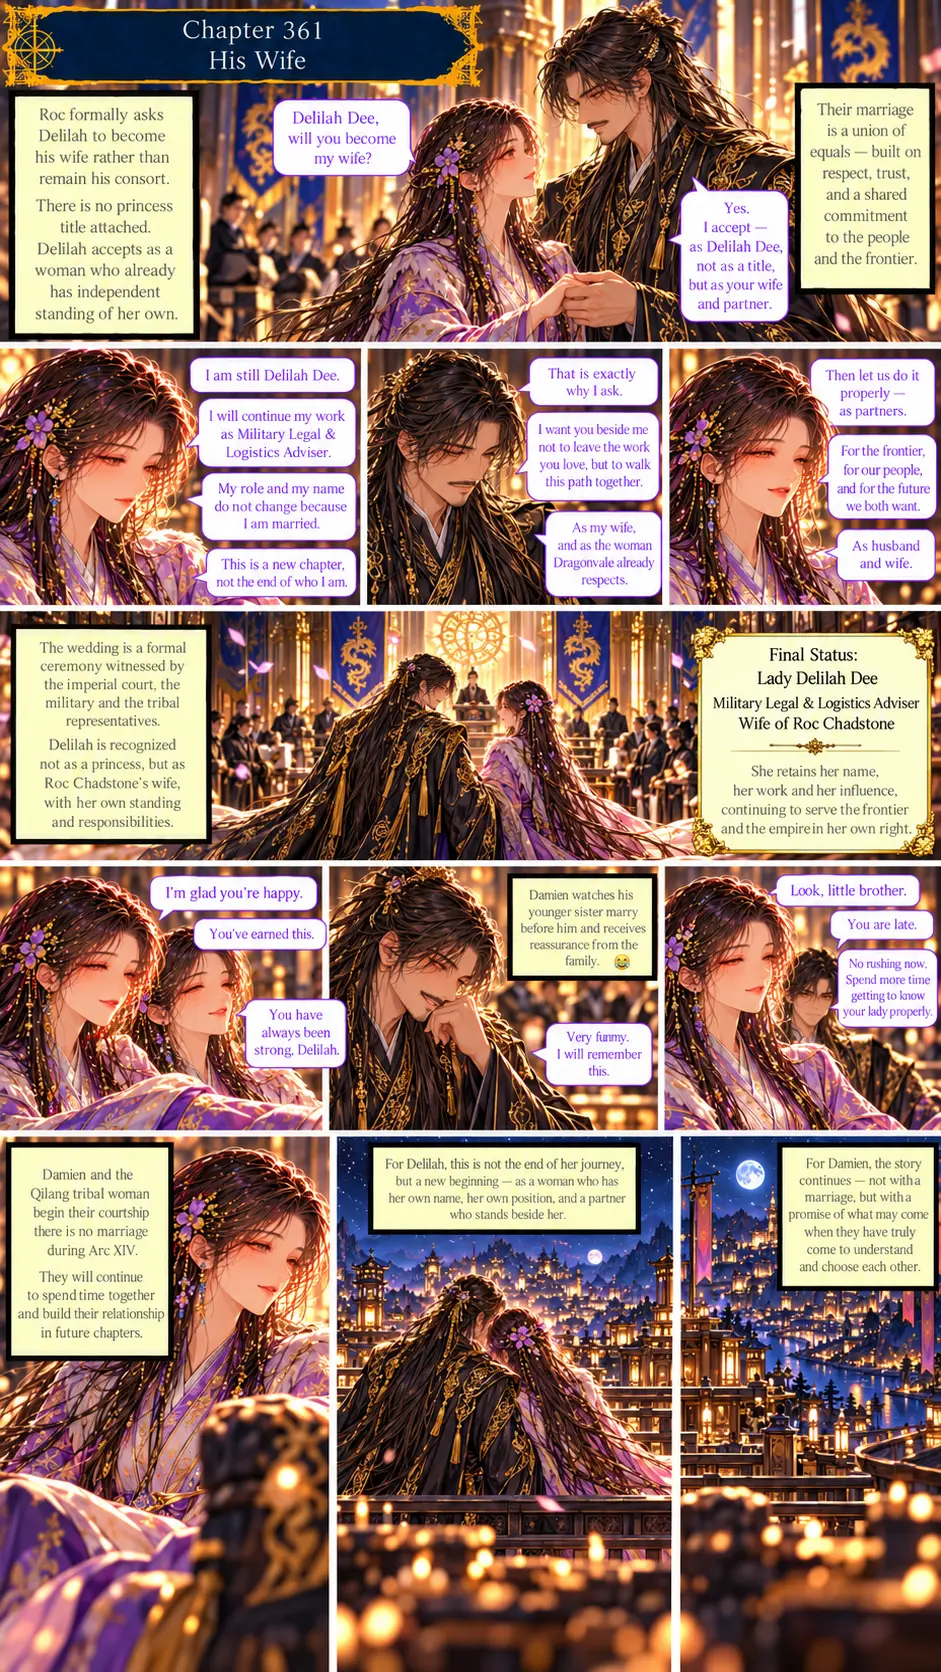
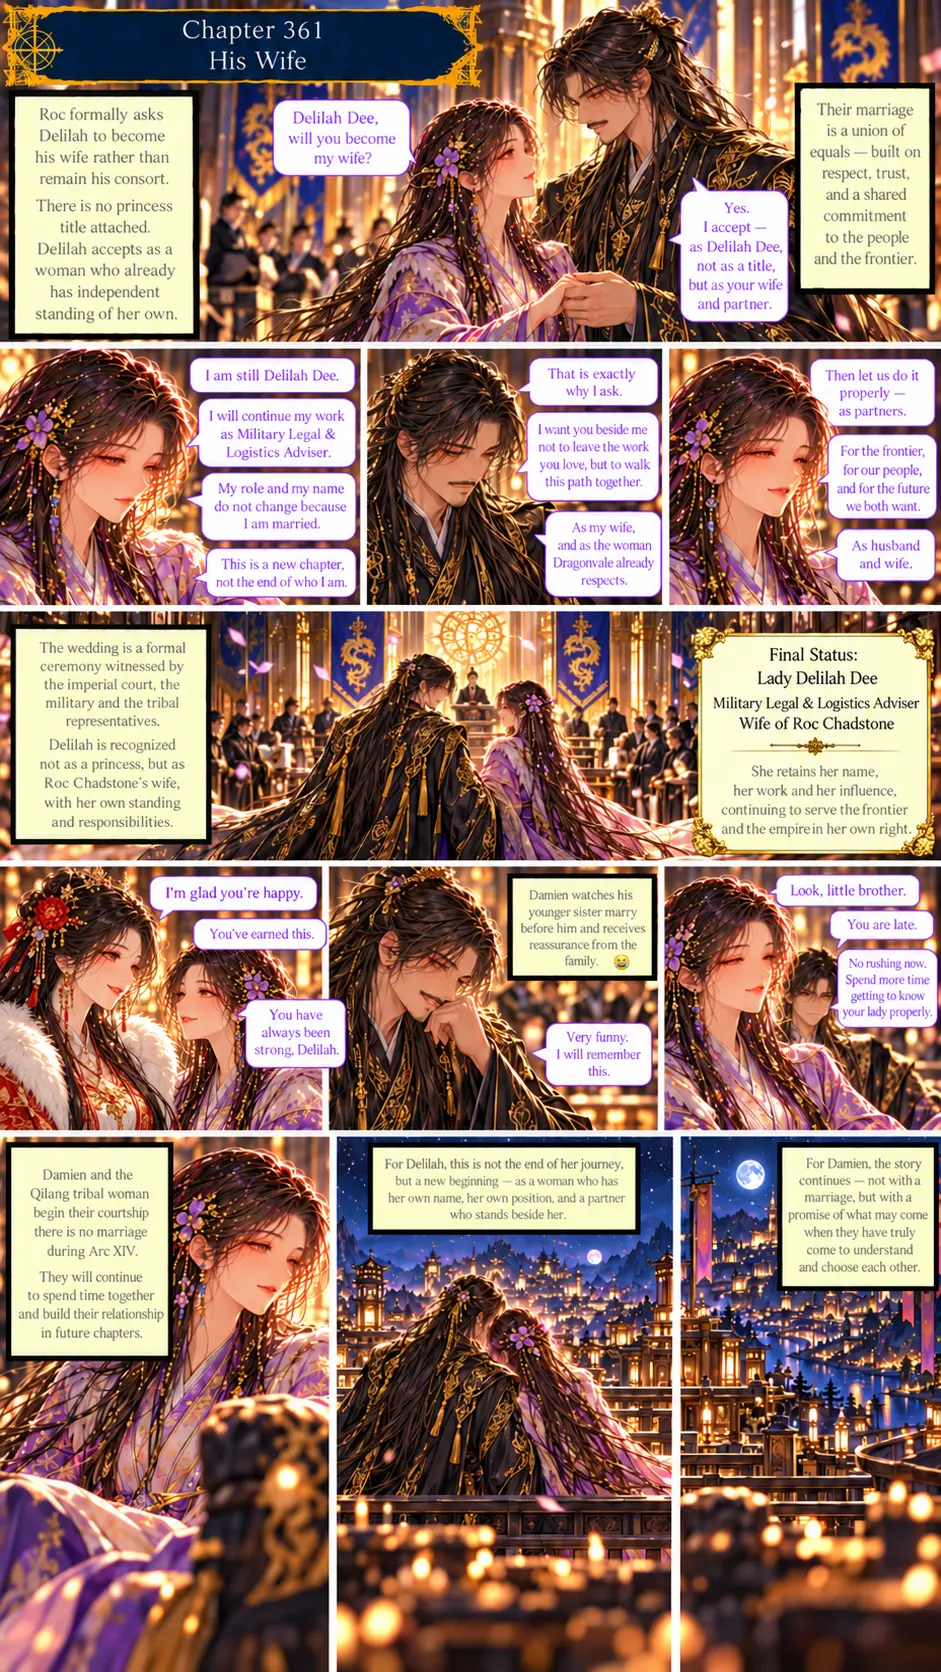
ch361: replaced page, congratulations are Jade's
Claude-Session: https://claude.ai/code/session_01JgCx3Matg4MVjEr67ncDB4

diff --git a/scripts/chapters.js b/scripts/chapters.js
@@ -3620,8 +3620,8 @@ const CHAPTER_DESIGN = {
  361:{ title:'His Wife', type:'Story Chapter — Arc XIV, The House of Dee (title from the author\'s brief): the Dee household and the western frontier', loc:'🐉 Dragonvale: the Noble Court',
   chars:['jade', 'devon'], charsNote:'Jade, Devon, Delilah, Roc and Damien',
   introduced:[],
-  sum:'Roc formally asks Delilah to become his wife rather than remain his consort. There is no princess title attached. Delilah accepts as a woman who already has independent standing of her own. Roc: "Delilah Dee, will you become my wife?" Delilah: "Yes. I accept, as Delilah Dee, not as a title, but as your wife and partner. I am still Delilah Dee. I will continue my work as Military Legal & Logistics Adviser. My role and my name do not change because I am married. This is a new chapter, not the end of who I am." Roc: "That is exactly why I ask. I want you beside me, not to leave the work you love, but to walk this path together. As my wife, and as the woman Dragonvale already respects." Delilah: "Then let us do it properly, as partners. For the frontier, for our people, and for the future we both want. As husband and wife." Their marriage is a union of equals, built on respect, trust and a shared commitment to the people and the frontier. The wedding is a formal ceremony witnessed by the imperial court, the military and the tribal representatives. Delilah is recognized not as a princess, but as Roc Chadstone\'s wife, with her own standing and responsibilities. Final Status: Lady Delilah Dee, Military Legal & Logistics Adviser, Wife of Roc Chadstone. She retains her name, her work and her influence, continuing to serve the frontier and the empire in her own right. A family member: "I\'m glad you\'re happy. You\'ve earned this. You have always been strong, Delilah." Damien watches his younger sister marry before him and receives reassurance from the family. A family member: "Look, little brother. You are late. No rushing now. Spend more time getting to know your lady properly." Damien: "Very funny. I will remember this." Damien and the Qilang tribal woman begin their courtship: there is no marriage during Arc XIV. They will continue to spend time together and build their relationship in future chapters. For Delilah, this is not the end of her journey, but a new beginning, as a woman who has her own name, her own position, and a partner who stands beside her. For Damien, the story continues: not with a marriage, but with a promise of what may come when they have truly come to understand and choose each other.',
-  art:'Pages show: Roc (a bearded man in black-and-gold robes with a tied-up long hair) holding Delilah\'s hands in the Dragonvale court under blue dragon banners; close-ups of Delilah and Roc; the wedding ceremony with a "Final Status" card (Lady Delilah Dee, Military Legal & Logistics Adviser, Wife of Roc Chadstone); family members congratulating her; Damien covering his mouth with a laugh; a closing night view of the lit city. The family jokes about Damien being late; the page text does not name the speakers. A rendering note: a 😂 emoji is printed in a caption.',
+  sum:'Roc formally asks Delilah to become his wife rather than remain his consort. There is no princess title attached. Delilah accepts as a woman who already has independent standing of her own. Roc: "Delilah Dee, will you become my wife?" Delilah: "Yes. I accept, as Delilah Dee, not as a title, but as your wife and partner. I am still Delilah Dee. I will continue my work as Military Legal & Logistics Adviser. My role and my name do not change because I am married. This is a new chapter, not the end of who I am." Roc: "That is exactly why I ask. I want you beside me, not to leave the work you love, but to walk this path together. As my wife, and as the woman Dragonvale already respects." Delilah: "Then let us do it properly, as partners. For the frontier, for our people, and for the future we both want. As husband and wife." Their marriage is a union of equals, built on respect, trust and a shared commitment to the people and the frontier. The wedding is a formal ceremony witnessed by the imperial court, the military and the tribal representatives. Delilah is recognized not as a princess, but as Roc Chadstone\'s wife, with her own standing and responsibilities. Final Status: Lady Delilah Dee, Military Legal & Logistics Adviser, Wife of Roc Chadstone. She retains her name, her work and her influence, continuing to serve the frontier and the empire in her own right. Jade: "I\'m glad you\'re happy. You\'ve earned this. You have always been strong, Delilah." Damien watches his younger sister marry before him and receives reassurance from the family. A family member: "Look, little brother. You are late. No rushing now. Spend more time getting to know your lady properly." Damien: "Very funny. I will remember this." Damien and the Qilang tribal woman begin their courtship: there is no marriage during Arc XIV. They will continue to spend time together and build their relationship in future chapters. For Delilah, this is not the end of her journey, but a new beginning, as a woman who has her own name, her own position, and a partner who stands beside her. For Damien, the story continues: not with a marriage, but with a promise of what may come when they have truly come to understand and choose each other.',
+  art:'Pages show: Roc (a bearded man in black-and-gold robes with a tied-up long hair) holding Delilah\'s hands in the Dragonvale court under blue dragon banners; close-ups of Delilah and Roc; the wedding ceremony with a "Final Status" card (Lady Delilah Dee, Military Legal & Logistics Adviser, Wife of Roc Chadstone); Jade (red-and-white fur-trimmed robe, red hair ornaments) congratulating Delilah; Damien covering his mouth with a laugh; a closing night view of the lit city. The family jokes about Damien being late; the page text does not name the speakers. A rendering note: a 😂 emoji is printed in a caption.',
   quote:'"Final Status: Lady Delilah Dee. Military Legal & Logistics Adviser. Wife of Roc Chadstone."',
   events:['Roc formally asks Delilah to become his wife rather than remain his consort; no princess title', 'Delilah accepts as a woman who already has independent standing, keeping her name and her work', 'The wedding is witnessed by the imperial court, the military and the tribal representatives', 'Final status: Lady Delilah Dee, Military Legal & Logistics Adviser, Wife of Roc Chadstone', 'Damien watches his younger sister marry first; he and the tribal woman begin their courtship, with no marriage in Arc XIV'],
   purpose:['Close Arc XIV', 'Make Delilah Roc\'s wife, not a princess'],

diff --git a/scripts/horizons.js b/scripts/horizons.js
@@ -1790,7 +1790,7 @@ LOCATIONS.dragon_court.spots.push(
    clues:['Delilah: "Then let us do it properly, as partners. For the frontier, for our people, and for the future we both want. As husband and wife." Their marriage is a union of equals, built on respect, trust, and a shared commitment to the people and the frontier.', 'The wedding is a formal ceremony witnessed by the imperial court, the military and the tribal representatives. Delilah is recognized not as a princess, but as Roc Chadstone\'s wife, with her own standing and responsibilities. Final Status: Lady Delilah Dee, Military Legal & Logistics Adviser, Wife of Roc Chadstone.'], rw:{xp:282500, gold:58800}, needFlag:'inv_hz361b', lockMsg:'🔒 Finish the previous clue first'},
   {id:'hz361d', kind:'investigate', n:'You Are Late', icon:'😄', ch:361, need:2, ambush:[], lo:94, roles:['delilah', 'damien', 'jade'],
    desc:'Damien and the family.',
-   clues:['A family member: "I\'m glad you\'re happy. You\'ve earned this. You have always been strong, Delilah." Damien watches his younger sister marry before him and receives reassurance from the family.', '"Look, little brother. You are late. No rushing now. Spend more time getting to know your lady properly." Damien: "Very funny. I will remember this." Damien and the Qilang tribal woman begin their courtship: there is no marriage during Arc XIV. For Delilah, this is a new beginning, as a woman who has her own name, her own position, and a partner who stands beside her.'], rw:{xp:282800, gold:58860}, needFlag:'inv_hz361c', lockMsg:'🔒 Finish the previous clue first'},
+   clues:['Jade: "I\'m glad you\'re happy. You\'ve earned this. You have always been strong, Delilah." Damien watches his younger sister marry before him and receives reassurance from the family.', '"Look, little brother. You are late. No rushing now. Spend more time getting to know your lady properly." Damien: "Very funny. I will remember this." Damien and the Qilang tribal woman begin their courtship: there is no marriage during Arc XIV. For Delilah, this is a new beginning, as a woman who has her own name, her own position, and a partner who stands beside her.'], rw:{xp:282800, gold:58860}, needFlag:'inv_hz361c', lockMsg:'🔒 Finish the previous clue first'},
 );
 LOCATIONS.dee_household.spots.push(
   {id:'hz360a', kind:'investigate', n:'Honesty', icon:'🌙', ch:360, need:2, ambush:[], lo:94, roles:['jade', 'delilah'],

diff --git a/sw.js b/sw.js
@@ -1,5 +1,5 @@
 /* Tribute service worker: app shell is cached for offline play; images and other assets are cached as you play. */
-const VERSION = 'tribute-v133';
+const VERSION = 'tribute-v134';
 const SHELL = ['./', './index.html', './styles.css', './manifest.webmanifest',
   './scripts/chapters.js','./scripts/characters.js','./scripts/skilltree.js','./scripts/core.js','./scripts/enemies.js','./scripts/battle.js','./scripts/autobattle.js',
   './scripts/journal.js','./scripts/world.js','./scripts/world-ui.js','./scripts/maps.js','./scripts/voyage.js','./scripts/family.js','./scripts/raid.js','./scripts/network.js','./scripts/evils.js','./scripts/relations.js','./scripts/regard.js','./scripts/whispers.js','./scripts/chronicle.js','./scripts/salary.js','./scripts/apprentice.js','./scripts/banter.js','./scripts/corruption.js','./scripts/explore.js','./scripts/arcs.js','./scripts/base.js','./scripts/skirmish.js','./scripts/items.js','./scripts/gear.js','./scripts/loot.js','./scripts/gates.js','./scripts/standing.js','./scripts/overheard.js','./scripts/deeds.js','./scripts/estates.js','./scripts/archive.js','./scripts/sunken.js','./scripts/passages.js','./scripts/codex.js','./scripts/growth.js','./scripts/echoes.js','./scripts/vows.js','./scripts/outfits.js','./scripts/royals.js','./scripts/arc9.js','./scripts/residents.js','./scripts/routes.js','./scripts/timed.js','./scripts/ways.js','./scripts/repute.js','./scripts/regmarks.js','./scripts/altan.js','./scripts/veyne.js','./scripts/horizons.js','./scripts/roc.js','./scripts/rewards.js','./scripts/tracker.js',

diff --git a/docs/ARC_XIV_PLAN.md b/docs/ARC_XIV_PLAN.md
@@ -80,6 +80,6 @@ Places: **The Dee Household** (ch340), **The Western Frontier** (ch342) and **Th
 
 ## More mismatches (359-361 and cover)
 1. **Cover:** "Eastern Frontier" on its map scroll against the chapters' western frontier; Damien is a "Young Dragonvale General" (not "commander"); Devon's title "Devoted Prince".
-2. **ch359/361 speakers:** many lines are unattributed; family members congratulating Delilah and teasing Damien ("Look, little brother. You are late.") are unnamed (Roc, Jade and Devon are the likeliest, but not stated). Kept unnamed.
+2. **ch359/361 speakers:** many lines are unattributed; the congratulations in 361 ("I'm glad you're happy. You've earned this.") are **Jade's** (author's correction, page replaced). The teasing ("Look, little brother. You are late.") is still unnamed.
 3. **ch361:** a caption prints a laughing emoji; Roc appears with a moustache and a tied-up bun, unlike earlier chapters' look.
 4. **The younger-sister scoreboard** (Delilah married first) is in the brief, not on the pages.
